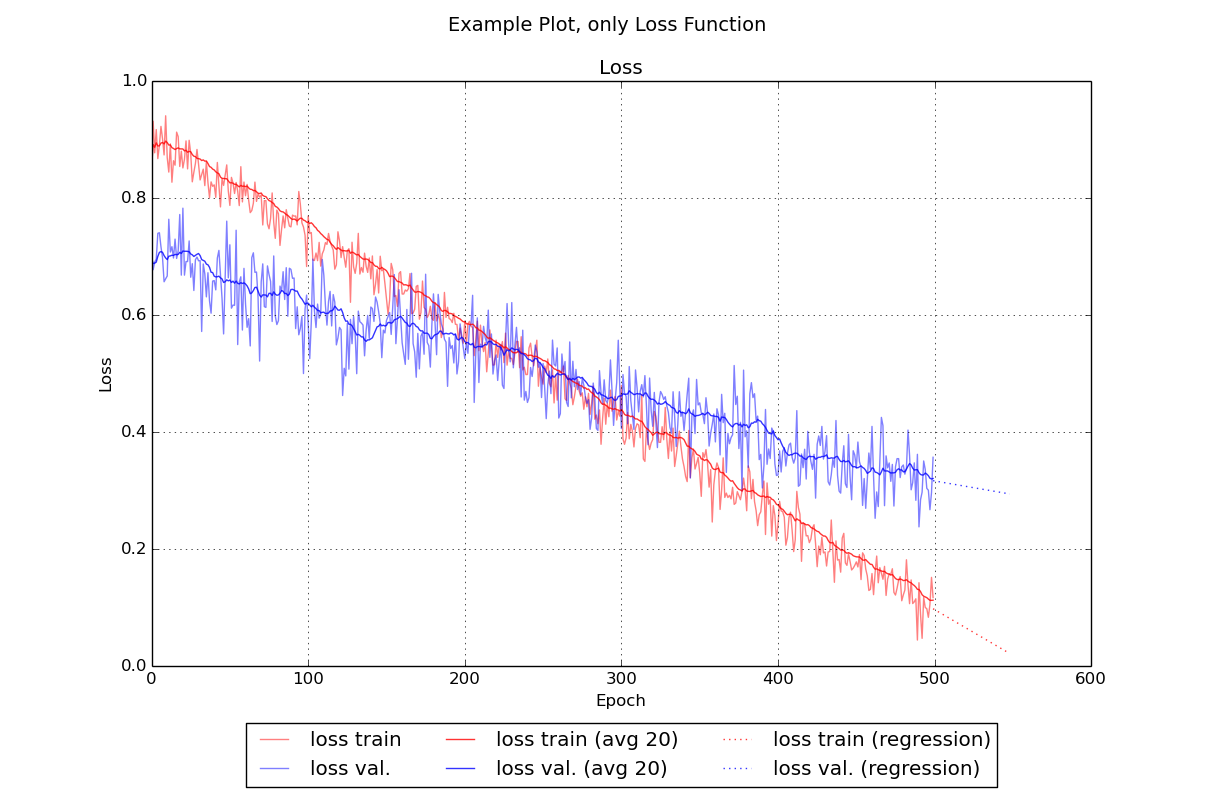
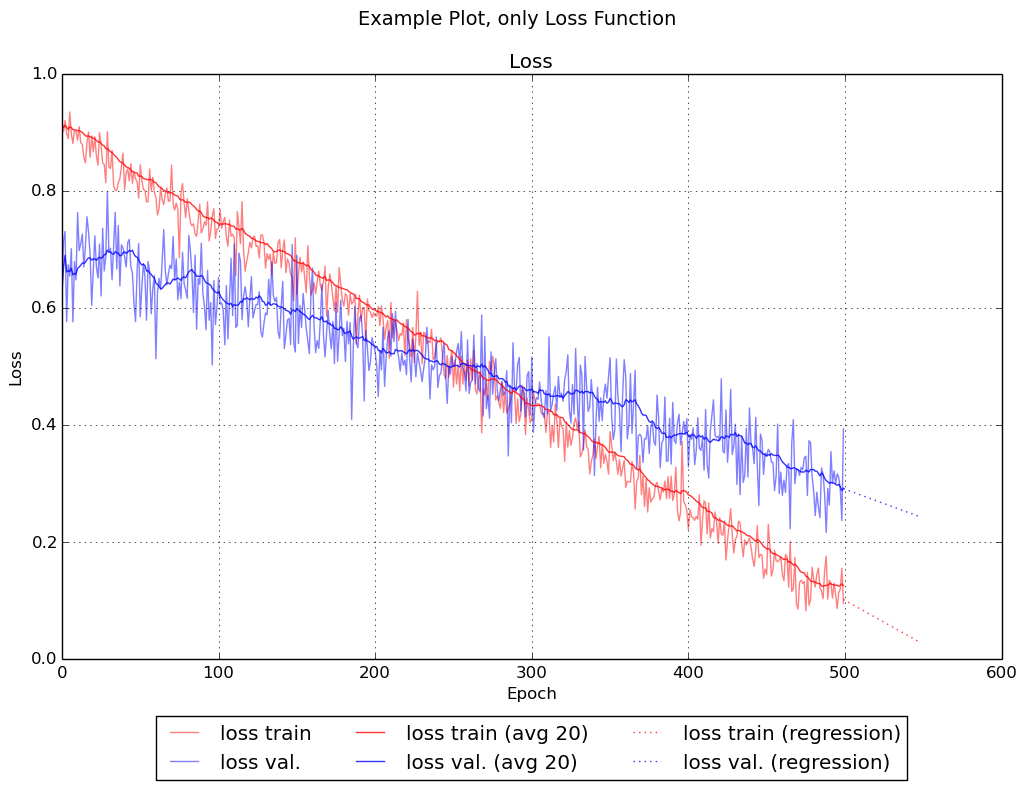
Modified: Removed whitespace around saved images; remodeled save_plot() so that it's less ambiguous what the method does

diff --git a/laplotter.py b/laplotter.py
@@ -255,23 +255,13 @@ class LossAccPlotter(object):
             plt.figure(self.fig.number)
             plt.show()
 
-    def save_plot(self, filepath=None):
+    def save_plot(self, filepath):
         """Saves the current plot to a file.
-        This function will automatically be called upon redraw.
-        This function will silently do nothing if save_to_filepath was not
-        set in the constructor, unless the parameter filepath was set to some
-        value.
 
         Args:
-            filepath: The path to the file, e.g. "/tmp/last_plot.png". If set
-                to None, the filepath that was set in the constructor will be
-                used. If that was also None, the function will do nothing.
-                (Default is None.)
+            filepath: The path to the file, e.g. "/tmp/last_plot.png".
         """
-        if self.save_to_filepath is not None:
-            self.fig.savefig(self.save_to_filepath)
-        elif filepath is not None:
-            self.fig.savefig(filepath)
+        self.fig.savefig(filepath, bbox_inches="tight")
 
     def _initialize_plot(self):
         """Creates empty figure and axes of the plot and shows it in a new window.
@@ -372,9 +362,8 @@ class LossAccPlotter(object):
                        ncol=ncol)
 
         # save the redrawn plot to a file upon every redraw.
-        # save_plot will automatically do nothing if no filepath was set in the
-        # constructor.
-        self.save_plot()
+        if self.save_to_filepath is not None:
+            self.save_plot(self.save_to_filepath)
 
     def _redraw_main_lines(self):
         """Draw the main lines of values (i.e. loss train, loss val, acc train, acc val).
